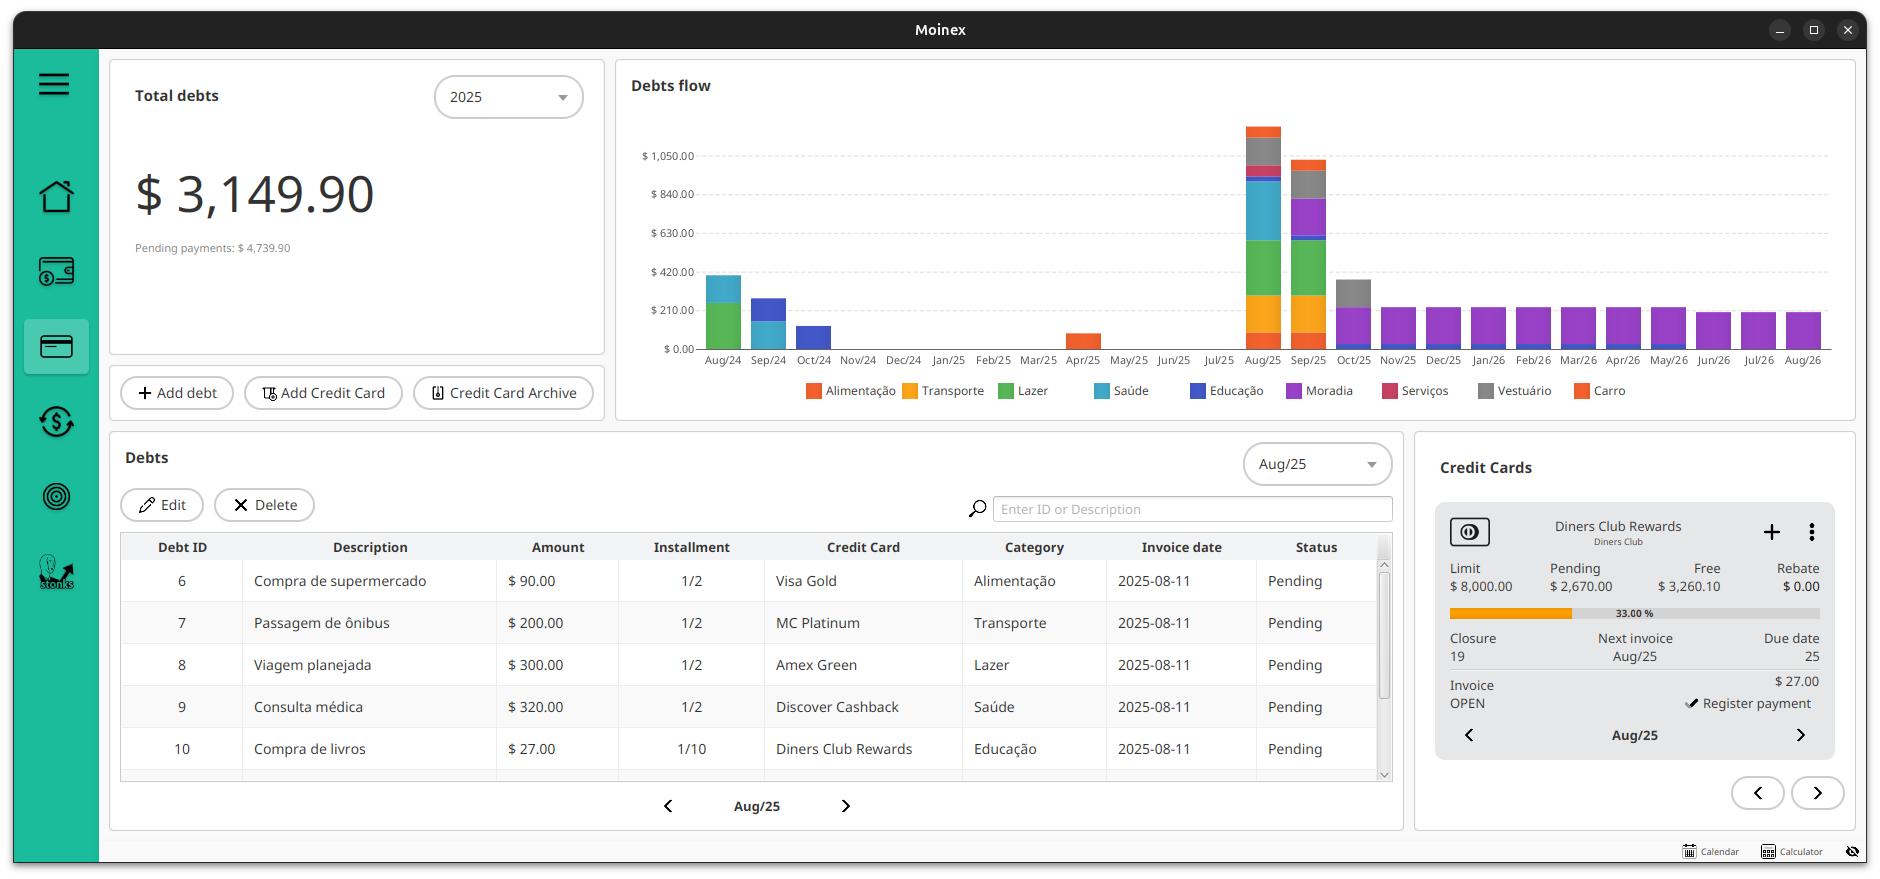
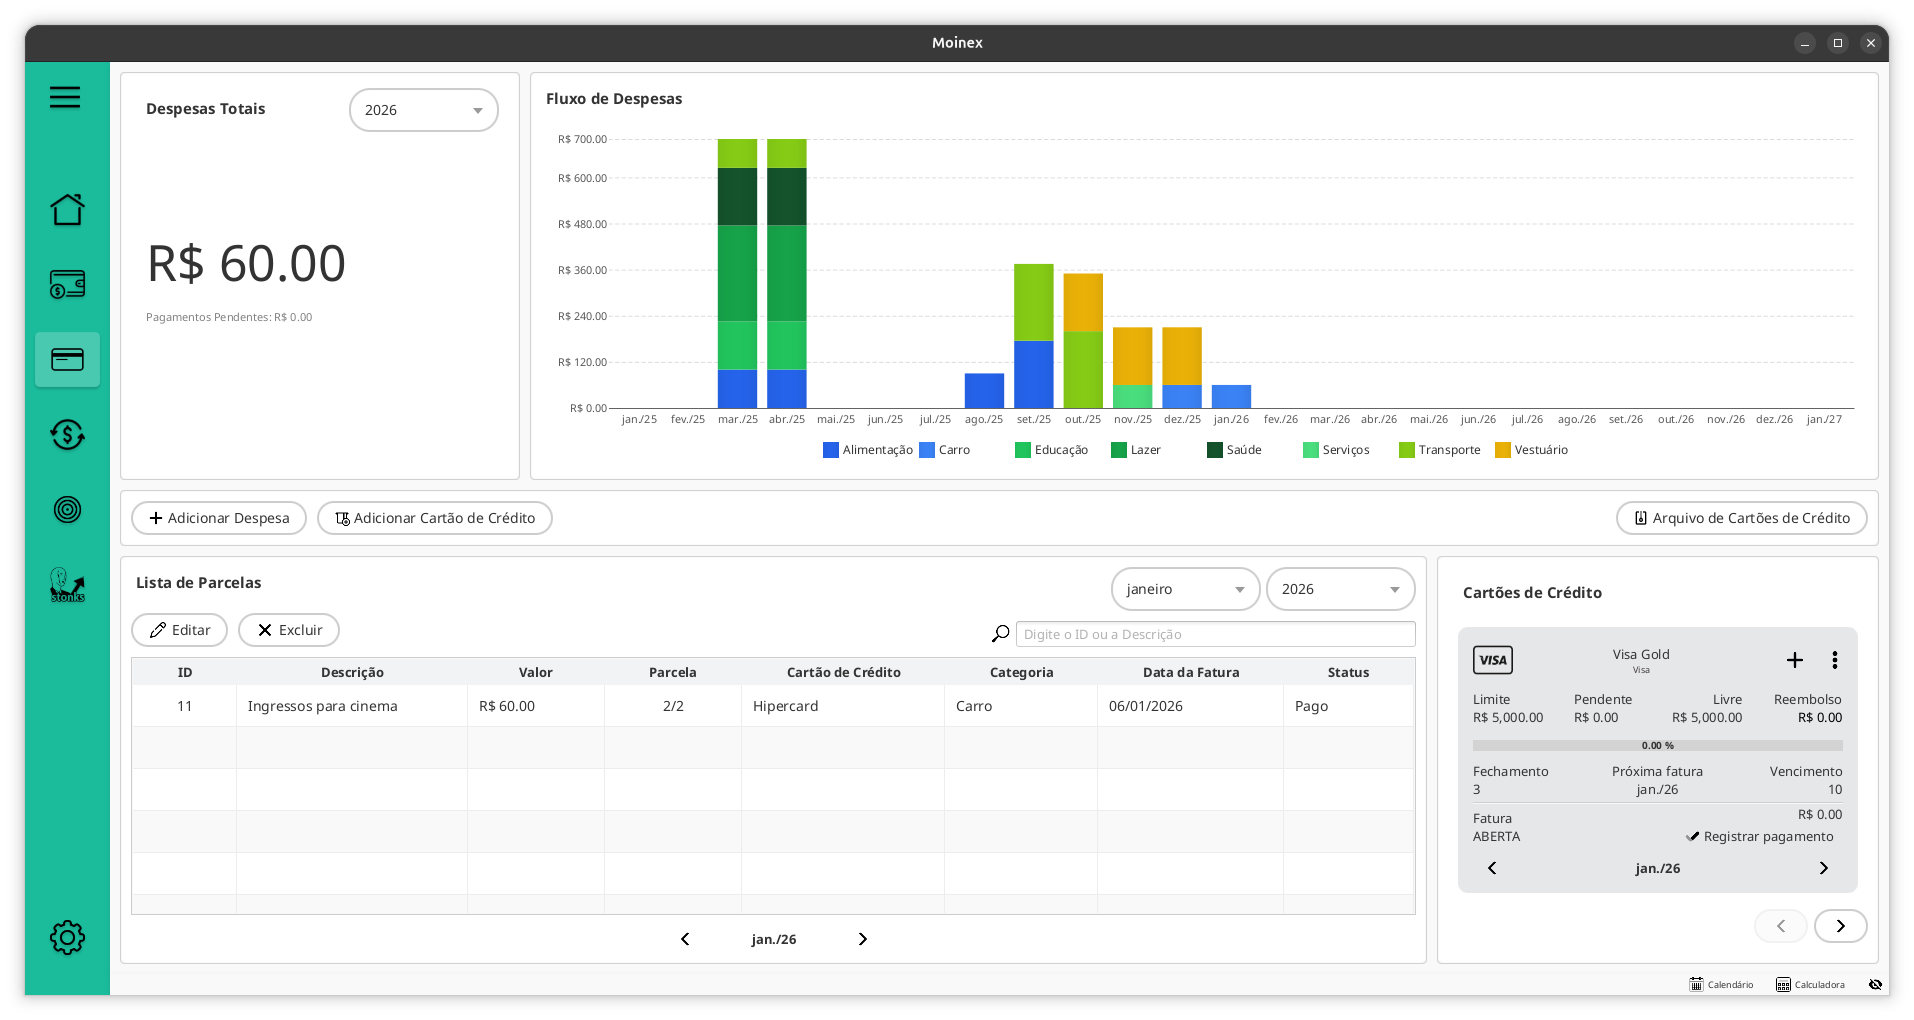
chore: update screenshots

diff --git a/scripts/generate_dummy_data.py b/scripts/generate_dummy_data.py
@@ -7,11 +7,11 @@ CONFIG = {
     "initial_data": {
         "wallet": [
             # id, type_id, name, initial_balance, archived
-            (1, 2, 'Banco XYZ', 100.00, 0),
+            (1, 2, 'Banco XYZ', 8000.00, 0),
             (2, 5, 'Carteira', 350.50, 0),
-            (3, 4, 'Emergência', 10000.00, 0),
+            (3, 4, 'Emergência', 15000.00, 0),
             (4, 4, 'Economia', 0.00, 0),
-            (5, 1, 'Corretora KLM', 5012.00, 0),
+            (5, 1, 'Corretora KLM', 5000.00, 0),
             (6, 6, 'Comprar uma bike', 980.00, 0),
             (7, 6, 'Comprar um celular novo', 1320.00, 0),
             (8, 6, 'Investir 10k em ações', 0.00, 0)
@@ -24,7 +24,7 @@ CONFIG = {
         ],
         "financial_plan": [
             # id, name, base_income, archived
-            (1, 'Plano 50/30/20', 3531.00, 0)
+            (1, 'Plano 50/30/20', 8500.00, 0)
         ],
         "budget_group": [
             # id, name, target_percentage, plan_id
@@ -46,7 +46,7 @@ CONFIG = {
         ],
         "recurring_transaction": [
             # id, amount, description, type, frequency, start_date, end_date, next_due_date, status, category_id, wallet_id
-            (1, 3531.00, 'Salário Mensal', 'INCOME', 'MONTHLY', (-11, 5), (120, 5), (0, 5), 'ACTIVE', 11, 1),
+            (1, 8500.00, 'Salário Mensal', 'INCOME', 'MONTHLY', (-11, 5), (120, 5), (0, 5), 'ACTIVE', 11, 1),
             (2, 830.00, 'Compra Mensal Supermercado', 'EXPENSE', 'MONTHLY', (-11, 15), (120, 15), (0, 15), 'ACTIVE', 1, 1),
             (3, 140.00, 'Mensalidade Academia', 'EXPENSE', 'MONTHLY', (-11, 10), (120, 10), (0, 10), 'ACTIVE', 4, 1)
         ],
@@ -70,59 +70,35 @@ CONFIG = {
             (3, 2, 3, (-11, 14), 500.00, 2, 'Viagem de férias'),
             (4, 3, 4, (-11, 19), 300.00, 2, 'Consulta médica'),
             (5, 4, 5, (-11, 24), 250.00, 2, 'Material escolar'),
-            (6, 1, 1, (0, 9), 180.00, 2, 'Compra de supermercado'),
-            (7, 2, 2, (0, 14), 400.00, 2, 'Passagem de ônibus'),
-            (8, 3, 3, (12, 19), 600.00, 2, 'Viagem planejada'),
-            (9, 4, 4, (12, 24), 320.00, 2, 'Consulta médica'),
-            (10, 5, 5, (12, 29), 270.00, 10, 'Compra de livros'),
-            (11, 2, 12, (0, 1), 450.00, 3, 'Compra online - Roupas'),
-            (12, 6, 1, (-5, 20), 85.00, 1, 'Restaurante japonês'),
-            (13, 5, 6, (1, 5), 2400.00, 12, 'Reforma da cozinha'),
-            (14, 7, 7, (0, 5), 59.90, 1, 'Assinatura Streaming de Música'),
-            (15, 8, 13, (-1, 18), 120.00, 2, 'Ingressos para cinema')
+            (6, 1, 1, (-6, 9), 180.00, 2, 'Compra de supermercado'),
+            (7, 2, 2, (-5, 14), 400.00, 2, 'Passagem de ônibus'),
+            (8, 2, 12, (-4, 1), 450.00, 3, 'Compra online - Roupas'),
+            (9, 6, 1, (-5, 20), 85.00, 1, 'Restaurante japonês'),
+            (10, 7, 7, (-3, 5), 59.90, 1, 'Assinatura Streaming de Música'),
+            (11, 8, 13, (-2, 18), 120.00, 2, 'Ingressos para cinema')
         ],
         # As tuplas representam: (id, wallet_id, debt_id, (meses_atras, dias_atras), amount, installment)
         "credit_card_payment": [
-            (1, 1, 1, (-16, 10), 100.00, 1), (2, 1, 1, (-15, 10), 100.00, 2),
-            (3, 1, 2, (-14, 10), 75.00, 1), (4, 1, 2, (-13, 10), 75.00, 2),
-            (5, 2, 3, (-13, 10), 250.00, 1), (6, 2, 3, (-12, 10), 250.00, 2),
-            (7, 3, 4, (-12, 10), 150.00, 1), (8, 3, 4, (-11, 10), 150.00, 2),
-            (9, 4, 5, (-11, 10), 125.00, 1), (10, 4, 5, (-10, 10), 125.00, 2),
-            (11, None, 6, (0, 10), 90.00, 1), (12, None, 6, (1, 10), 90.00, 2),
-            (13, None, 7, (0, 10), 200.00, 1), (14, None, 7, (1, 10), 200.00, 2),
-            (15, None, 8, (0, 10), 300.00, 1), (16, None, 8, (1, 10), 300.00, 2),
-            (17, None, 9, (0, 10), 320.00, 1),
-            (19, None, 10, (0, 10), 27.00, 1), (20, None, 10, (1, 10), 27.00, 2),
-            (21, None, 10, (2, 10), 27.00, 3), (22, None, 10, (3, 10), 27.00, 4),
-            (23, None, 10, (4, 10), 27.00, 5), (24, None, 10, (5, 10), 27.00, 6),
-            (25, None, 10, (6, 10), 27.00, 7), (26, None, 10, (7, 10), 27.00, 8),
-            (27, None, 10, (8, 10), 27.00, 9), (28, None, 10, (9, 10), 27.00, 10),
-            (29, None, 11, (0, 15), 150.00, 1),
-            (30, None, 11, (1, 15), 150.00, 2),
-            (31, None, 11, (2, 15), 150.00, 3),
-            (32, 1, 12, (-4, 10), 85.00, 1),
-            (33, None, 13, (1, 25), 200.00, 1),
-            (34, None, 13, (2, 25), 200.00, 2),
-            (35, None, 13, (3, 25), 200.00, 3),
-            (36, None, 13, (4, 25), 200.00, 4),
-            (37, None, 13, (5, 25), 200.00, 5),
-            (38, None, 13, (6, 25), 200.00, 6),
-            (39, None, 13, (7, 25), 200.00, 7),
-            (40, None, 13, (8, 25), 200.00, 8),
-            (41, None, 13, (9, 25), 200.00, 9),
-            (42, None, 13, (10, 25), 200.00, 10),
-            (43, None, 13, (11, 25), 200.00, 11),
-            (44, None, 13, (12, 25), 200.00, 12),
-            (45, None, 14, (0, 11), 59.90, 1),
-            (46, 1, 15, (0, 5), 60.00, 1),
-            (47, None, 15, (1, 5), 60.00, 2)
+            (1, 1, 1, (-10, 10), 100.00, 1), (2, 1, 1, (-9, 10), 100.00, 2),
+            (3, 1, 2, (-10, 10), 75.00, 1), (4, 1, 2, (-9, 10), 75.00, 2),
+            (5, 1, 3, (-10, 10), 250.00, 1), (6, 1, 3, (-9, 10), 250.00, 2),
+            (7, 1, 4, (-10, 10), 150.00, 1), (8, 1, 4, (-9, 10), 150.00, 2),
+            (9, 1, 5, (-10, 10), 125.00, 1), (10, 1, 5, (-9, 10), 125.00, 2),
+            (11, 1, 6, (-5, 10), 90.00, 1), (12, 1, 6, (-4, 10), 90.00, 2),
+            (13, 1, 7, (-4, 10), 200.00, 1), (14, 1, 7, (-3, 10), 200.00, 2),
+            (15, 1, 8, (-3, 15), 150.00, 1), (16, 1, 8, (-2, 15), 150.00, 2),
+            (17, 1, 8, (-1, 15), 150.00, 3),
+            (18, 1, 9, (-4, 10), 85.00, 1),
+            (19, 1, 10, (-2, 11), 59.90, 1),
+            (20, 1, 11, (-1, 5), 60.00, 1),
+            (21, 1, 11, (0, 5), 60.00, 2)
         ],
         "possible_transactions": [
             # --- Rendas (INCOME) ---
-            (1, 11, 'INCOME', 'CONFIRMED', 3531.00, 'Salário'),
+            (1, 11, 'INCOME', 'CONFIRMED', 8500.00, 'Salário'),
             (1, 0, 'INCOME', 'CONFIRMED', 150.00, 'Devolução de fiança'),
             (1, 0, 'INCOME', 'CONFIRMED', 200.00, 'Devolução de empréstimo'),
-            (1, 12, 'INCOME', 'CONFIRMED', 500.00, 'Trabalho Freelance'),
+            (1, 12, 'INCOME', 'CONFIRMED', 1200.00, 'Trabalho Freelance'),
 
             # --- Despesas (EXPENSE) ---
             (1, 1, 'EXPENSE', 'CONFIRMED', 830.00, 'Compra de alimentos no supermercado'),
@@ -138,18 +114,66 @@ CONFIG = {
             (1, 0, 'EXPENSE', 'PENDING', 1200.00, 'Presentes e comemorações de final de ano'),
         ],
         "monthly_rules": [
-            {'month_offset': -11, 'target_income': 3550, 'target_expense': 3000},
-            {'month_offset': -10, 'target_income': 3550, 'target_expense': 3200},
-            {'month_offset': -9,  'target_income': 4000, 'target_expense': 3500},
-            {'month_offset': -8,  'target_income': 3550, 'target_expense': 3000},
-            {'month_offset': -7,  'target_income': 3550, 'target_expense': 3500},
-            {'month_offset': -6,  'target_income': 3800, 'target_expense': 2000},
-            {'month_offset': -5,  'target_income': 3550, 'target_expense': 3300},
-            {'month_offset': -4,  'target_income': 3550, 'target_expense': 3100},
-            {'month_offset': -3,  'target_income': 4200, 'target_expense': 2000},
-            {'month_offset': -2,  'target_income': 3550, 'target_expense': 3000},
-            {'month_offset': -1,  'target_income': 3700, 'target_expense': 3000},
-            {'month_offset': 0,   'target_income': 3550, 'target_expense': 3000},
+            {'month_offset': -11, 'target_income': 8500, 'target_expense': 3000},
+            {'month_offset': -10, 'target_income': 8500, 'target_expense': 3200},
+            {'month_offset': -9,  'target_income': 9700, 'target_expense': 3500},
+            {'month_offset': -8,  'target_income': 8500, 'target_expense': 3000},
+            {'month_offset': -7,  'target_income': 8500, 'target_expense': 3500},
+            {'month_offset': -6,  'target_income': 9200, 'target_expense': 2000},
+            {'month_offset': -5,  'target_income': 8500, 'target_expense': 3300},
+            {'month_offset': -4,  'target_income': 8500, 'target_expense': 3100},
+            {'month_offset': -3,  'target_income': 10000, 'target_expense': 2000},
+            {'month_offset': -2,  'target_income': 8500, 'target_expense': 3000},
+            {'month_offset': -1,  'target_income': 8800, 'target_expense': 3000},
+            {'month_offset': 0,   'target_income': 8500, 'target_expense': 3000},
+        ],
+        "ticker": [
+            # id, name, symbol, type, current_quantity, current_unit_value, average_unit_value, average_unit_value_count, archived, last_update_offset
+            (1, 'Petrobras PN', 'PETR4.SA', 'STOCK', 100.00, 38.50, 35.20, 100.00, 0, (-1, 0)),
+            (2, 'Vale ON', 'VALE3.SA', 'STOCK', 50.00, 62.30, 58.75, 50.00, 0, (-1, 0)),
+            (3, 'Itaú Unibanco PN', 'ITUB4.SA', 'STOCK', 200.00, 28.90, 26.50, 200.00, 0, (-1, 0)),
+            (4, 'Magazine Luiza ON', 'MGLU3.SA', 'STOCK', 150.00, 12.45, 15.80, 150.00, 0, (-1, 0)),
+            (5, 'Bitcoin', 'BTC-USD', 'CRYPTOCURRENCY', 0.25, 95000.00, 82000.00, 0.25, 0, (0, 0)),
+            (6, 'Ethereum', 'ETH-USD', 'CRYPTOCURRENCY', 2.50, 3500.00, 2800.00, 2.50, 0, (0, 0)),
+            (7, 'Cardano', 'ADA-USD', 'CRYPTOCURRENCY', 5000.00, 0.45, 0.38, 5000.00, 0, (0, 0)),
+            (8, 'IVVB11', 'IVVB11.SA', 'FUND', 30.00, 285.50, 270.00, 30.00, 0, (-1, 0)),
+        ],
+        "bond": [
+            # id, name, symbol, type, issuer, maturity_date_offset, interest_type, interest_index, interest_rate, archived
+            (1, 'CDB Banco XYZ 120% CDI', 'CDB-XYZ-001', 'CDB', 'Banco XYZ', (24, 0), 'FLOATING', 'CDI', 120.00, 0),
+            (2, 'LCI Banco ABC 95% CDI', 'LCI-ABC-002', 'LCI', 'Banco ABC', (36, 0), 'FLOATING', 'CDI', 95.00, 0),
+            (3, 'Tesouro Selic 2027', 'TESOURO-SELIC-2027', 'TREASURY_POSTFIXED', 'Tesouro Nacional', (36, 0), 'FLOATING', 'SELIC', 100.00, 0),
+            (4, 'Tesouro Prefixado 2028', 'TESOURO-PRE-2028', 'TREASURY_PREFIXED', 'Tesouro Nacional', (48, 0), 'FIXED', 'OTHER', 12.50, 0),
+            (5, 'Tesouro IPCA+ 2030', 'TESOURO-IPCA-2030', 'TREASURY_POSTFIXED', 'Tesouro Nacional', (72, 0), 'FLOATING', 'IPCA', 6.25, 0),
+            (6, 'LCA Banco DEF 90% CDI', 'LCA-DEF-003', 'LCA', 'Banco DEF', (24, 0), 'FLOATING', 'CDI', 90.00, 0),
+        ],
+        "ticker_purchase": [
+            # id, ticker_id, quantity, unit_price, wallet_id, (month_offset, day_offset), description
+            (1, 1, 50.00, 32.00, 5, (-8, 5), 'Compra de ações PETR4'),
+            (2, 1, 50.00, 38.40, 5, (-3, 12), 'Compra adicional PETR4'),
+            (3, 2, 50.00, 58.75, 5, (-6, 8), 'Compra de ações VALE3'),
+            (4, 3, 100.00, 25.00, 5, (-9, 15), 'Compra de ações ITUB4'),
+            (5, 3, 100.00, 28.00, 5, (-2, 20), 'Compra adicional ITUB4'),
+            (6, 4, 200.00, 15.80, 5, (-5, 10), 'Compra de ações MGLU3'),
+            (7, 5, 0.02, 75000.00, 5, (-10, 3), 'Compra de Bitcoin'),
+            (8, 5, 0.02, 92000.00, 5, (-2, 8), 'Compra adicional Bitcoin'),
+            (9, 6, 0.50, 2500.00, 5, (-7, 12), 'Compra de Ethereum'),
+            (10, 6, 0.30, 3200.00, 5, (-1, 5), 'Compra adicional Ethereum'),
+            (11, 7, 500.00, 0.38, 5, (-4, 18), 'Compra de Cardano'),
+            (12, 8, 10.00, 270.00, 5, (-6, 22), 'Compra de IVVB11'),
+        ],
+        "ticker_sale": [
+            # id, ticker_id, quantity, unit_price, average_cost, wallet_id, (month_offset, day_offset), description
+            (1, 4, 50.00, 18.50, 15.80, 5, (-1, 15), 'Venda parcial MGLU3'),
+        ],
+        "bond_operation": [
+            # id, bond_id, operation_type, quantity, unit_price, fees, taxes, net_profit, wallet_id, (month_offset, day_offset), description
+            (1, 1, 'BUY', 2.00, 1000.00, 5.00, 0.00, None, 5, (-9, 5), 'Aplicação em CDB'),
+            (2, 2, 'BUY', 1.00, 2000.00, 3.00, 0.00, None, 5, (-7, 10), 'Aplicação em LCI'),
+            (3, 3, 'BUY', 2.00, 1250.00, 0.00, 0.00, None, 5, (-6, 15), 'Compra Tesouro Selic'),
+            (4, 4, 'BUY', 1.00, 1666.67, 0.00, 0.00, None, 5, (-5, 8), 'Compra Tesouro Prefixado'),
+            (5, 5, 'BUY', 1.00, 2500.00, 0.00, 0.00, None, 5, (-4, 12), 'Compra Tesouro IPCA+'),
+            (6, 6, 'BUY', 2.00, 833.33, 2.50, 0.00, None, 5, (-3, 20), 'Aplicação em LCA'),
         ]
     }
 }
@@ -170,7 +194,12 @@ def execute_query(cursor, query, params=()):
 def clear_data(cursor):
     """Limpa os dados das tabelas para uma nova inserção."""
     print("Erasing old data from the database...")
-    tables_to_clear = ["recurring_transaction", "budget_group_categories", "budget_group", "financial_plan", "goal", "credit_card_payment", "credit_card_debt", "credit_card", "wallet_transaction", "wallet"]
+    tables_to_clear = [
+        "dividend", "ticker_sale", "ticker_purchase", "sale", "purchase", "crypto_exchange",
+        "bond_operation", "bond", "ticker",
+        "recurring_transaction", "budget_group_categories", "budget_group", "financial_plan", 
+        "goal", "credit_card_payment", "credit_card_debt", "credit_card", "wallet_transaction", "wallet"
+    ]
     for table in tables_to_clear:
         execute_query(cursor, f"DELETE FROM {table};")
         if table not in ["goal", "budget_group_categories"]:
@@ -287,6 +316,92 @@ def update_wallet_balances(cursor):
         cursor.execute("UPDATE wallet SET balance = ? WHERE id = ?;", (final_balance, wallet_id))
     print("Wallet balances updated successfully.")
 
+def populate_tickers(cursor, data):
+    """Insere os tickers (ações, fundos, criptomoedas) no banco de dados."""
+    print("Inserting tickers...")
+    for row in data["ticker"]:
+        ticker_id, name, symbol, ticker_type, current_quantity, current_unit_value, average_unit_value, average_unit_value_count, archived, last_update_offsets = row
+        last_update = get_dynamic_date(last_update_offsets[0], last_update_offsets[1])
+        params = (ticker_id, name, symbol, ticker_type, current_quantity, current_unit_value, average_unit_value, average_unit_value_count, archived, last_update)
+        execute_query(cursor, "INSERT INTO ticker (id, name, symbol, type, current_quantity, current_unit_value, average_unit_value, average_unit_value_count, archived, last_update) VALUES (?, ?, ?, ?, ?, ?, ?, ?, ?, ?);", params)
+    print("Tickers inserted successfully.")
+
+def populate_bonds(cursor, data):
+    """Insere os bonds no banco de dados."""
+    print("Inserting bonds...")
+    for row in data["bond"]:
+        bond_id, name, symbol, bond_type, issuer, maturity_date_offsets, interest_type, interest_index, interest_rate, archived = row
+        maturity_date = get_dynamic_date(maturity_date_offsets[0], maturity_date_offsets[1])
+        params = (bond_id, name, symbol, bond_type, issuer, maturity_date, interest_type, interest_index, interest_rate, archived)
+        execute_query(cursor, "INSERT INTO bond (id, name, symbol, type, issuer, maturity_date, interest_type, interest_index, interest_rate, archived) VALUES (?, ?, ?, ?, ?, ?, ?, ?, ?, ?);", params)
+    print("Bonds inserted successfully.")
+
+def populate_ticker_operations(cursor, data):
+    """Insere as operações de compra e venda de tickers."""
+    print("Inserting ticker operations...")
+    
+    # Insert ticker purchases
+    for row in data["ticker_purchase"]:
+        purchase_id, ticker_id, quantity, unit_price, wallet_id, date_offsets, description = row
+        dynamic_date = get_dynamic_date(date_offsets[0], date_offsets[1])
+        
+        # Create wallet transaction for the purchase
+        total_amount = quantity * unit_price
+        wt_params = (None, wallet_id, 9, 'EXPENSE', 'CONFIRMED', dynamic_date, total_amount, description)
+        execute_query(cursor, "INSERT INTO wallet_transaction (id, wallet_id, category_id, type, status, date, amount, description) VALUES (?, ?, ?, ?, ?, ?, ?, ?);", wt_params)
+        
+        # Get the wallet_transaction_id
+        cursor.execute("SELECT last_insert_rowid();")
+        wt_id = cursor.fetchone()[0]
+        
+        # Insert ticker purchase
+        tp_params = (purchase_id, quantity, unit_price, wt_id, ticker_id)
+        execute_query(cursor, "INSERT INTO ticker_purchase (id, quantity, unit_price, wallet_transaction_id, ticker_id) VALUES (?, ?, ?, ?, ?);", tp_params)
+    
+    # Insert ticker sales
+    for row in data["ticker_sale"]:
+        sale_id, ticker_id, quantity, unit_price, average_cost, wallet_id, date_offsets, description = row
+        dynamic_date = get_dynamic_date(date_offsets[0], date_offsets[1])
+        
+        # Create wallet transaction for the sale
+        total_amount = quantity * unit_price
+        wt_params = (None, wallet_id, 9, 'INCOME', 'CONFIRMED', dynamic_date, total_amount, description)
+        execute_query(cursor, "INSERT INTO wallet_transaction (id, wallet_id, category_id, type, status, date, amount, description) VALUES (?, ?, ?, ?, ?, ?, ?, ?);", wt_params)
+        
+        # Get the wallet_transaction_id
+        cursor.execute("SELECT last_insert_rowid();")
+        wt_id = cursor.fetchone()[0]
+        
+        # Insert ticker sale
+        ts_params = (sale_id, quantity, unit_price, average_cost, wt_id, ticker_id)
+        execute_query(cursor, "INSERT INTO ticker_sale (id, quantity, unit_price, average_cost, wallet_transaction_id, ticker_id) VALUES (?, ?, ?, ?, ?, ?);", ts_params)
+    
+    print("Ticker operations inserted successfully.")
+
+def populate_bond_operations(cursor, data):
+    """Insere as operações de bonds."""
+    print("Inserting bond operations...")
+    
+    for row in data["bond_operation"]:
+        operation_id, bond_id, operation_type, quantity, unit_price, fees, taxes, net_profit, wallet_id, date_offsets, description = row
+        dynamic_date = get_dynamic_date(date_offsets[0], date_offsets[1])
+        
+        # Create wallet transaction for the operation
+        total_amount = (quantity * unit_price) + (fees or 0.0)
+        trans_type = 'EXPENSE' if operation_type == 'BUY' else 'INCOME'
+        wt_params = (None, wallet_id, 9, trans_type, 'CONFIRMED', dynamic_date, total_amount, description)
+        execute_query(cursor, "INSERT INTO wallet_transaction (id, wallet_id, category_id, type, status, date, amount, description) VALUES (?, ?, ?, ?, ?, ?, ?, ?);", wt_params)
+        
+        # Get the wallet_transaction_id
+        cursor.execute("SELECT last_insert_rowid();")
+        wt_id = cursor.fetchone()[0]
+        
+        # Insert bond operation
+        bo_params = (operation_id, bond_id, operation_type, quantity, unit_price, fees, taxes, net_profit, wt_id)
+        execute_query(cursor, "INSERT INTO bond_operation (id, bond_id, operation_type, quantity, unit_price, fees, taxes, net_profit, wallet_transaction_id) VALUES (?, ?, ?, ?, ?, ?, ?, ?, ?);", bo_params)
+    
+    print("Bond operations inserted successfully.")
+
 def main():
     """Função principal para executar todo o processo."""
     parser = argparse.ArgumentParser(description="Generate dummy data for the wallet application.")
@@ -302,6 +417,10 @@ def main():
         clear_data(cursor)
         populate_initial_data(cursor, CONFIG["initial_data"])
 
+        # Insere tickers e bonds
+        populate_tickers(cursor, CONFIG["initial_data"])
+        populate_bonds(cursor, CONFIG["initial_data"])
+
         # Gera as transações dinamicamente
         wallet_transactions = generate_wallet_transactions(
             CONFIG["initial_data"]["monthly_rules"],
@@ -309,6 +428,10 @@ def main():
         )
         # Insere as transações geradas
         insert_wallet_transactions(cursor, wallet_transactions)
+
+        # Insere operações de tickers e bonds
+        populate_ticker_operations(cursor, CONFIG["initial_data"])
+        populate_bond_operations(cursor, CONFIG["initial_data"])
 
         update_wallet_balances(cursor)
 
